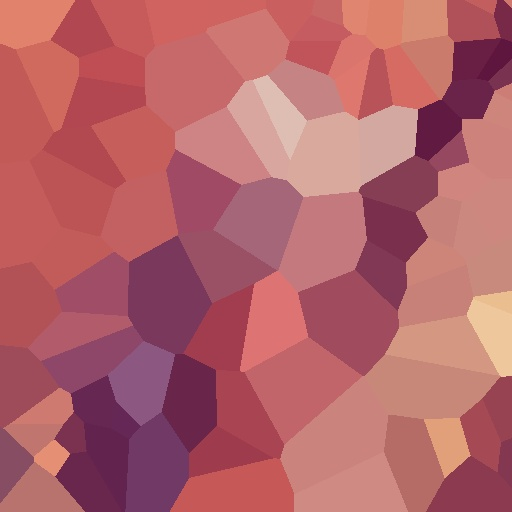
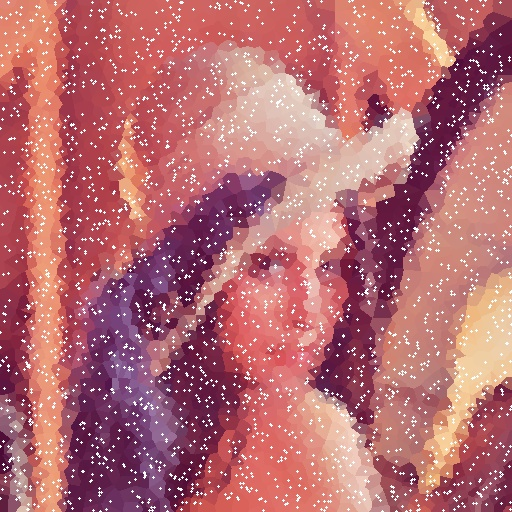
yippeeeee

diff --git a/voronoioptimized.py b/voronoioptimized.py
@@ -1,0 +1,89 @@
+import cv2
+import numpy as np
+import random
+import math
+import time
+class VoronoiMosaic:
+    def __init__(self, input_image):
+        self.input_image = input_image
+        self.region_assignment = None
+        self.output_image = None
+    
+    # Generate seeds for the Voronoi diagram
+    def generate_seeds(self, num_seeds):
+        h, w = self.input_image.shape[:2]
+        seeds = np.column_stack((
+            np.random.randint(0, w, num_seeds),
+            np.random.randint(0, h, num_seeds)
+        ))
+        return seeds.tolist()
+
+    # Generate the Voronoi diagram
+    def voronoi(self, seeds):
+        seeds = np.array(seeds, dtype=np.float32)
+
+        # Generate a grid of all pixels in the image
+        x = np.arange(self.input_image.shape[1], dtype=np.float32)
+        y = np.arange(self.input_image.shape[0], dtype=np.float32)
+        xx, yy = np.meshgrid(x, y)
+
+        # The shape of points is [height, width, 2]
+        points = np.stack((xx, yy), axis=-1)
+        
+        # Chunking
+        chunk_size = 100
+        # Initialize region assignment for each pixel
+        self.region_assignment = np.zeros(self.input_image.shape[:2], dtype=np.int32)
+        
+        # Chunking points
+        for i in range(0, points.shape[0], chunk_size):
+            for j in range(0, points.shape[1], chunk_size):
+                chunk = points[i:i+chunk_size, j:j+chunk_size]
+                distances = np.sum((chunk[..., np.newaxis, :] - seeds) ** 2, axis=-1)
+                self.region_assignment[i:i+chunk_size, j:j+chunk_size] = np.argmin(distances, axis=-1)
+
+    # Assign colors to each region
+    def region_color(self, num_seeds):
+        region_colors = np.zeros((num_seeds, 3), dtype=np.uint8)
+        for i in range(num_seeds):
+            mask = self.region_assignment == i
+            if np.any(mask):
+                region_colors[i] = np.mean(self.input_image[mask], axis=0)
+        return region_colors
+    
+    def region_color(self, num_seeds):
+        region_colors = np.zeros((num_seeds, 3), dtype=np.uint8)
+        masks = [self.region_assignment == i for i in range(num_seeds)]
+        for channel in range(3):
+            for i, mask in enumerate(masks):
+                if np.any(mask):
+                    pixels = self.input_image[mask, channel]
+                    region_colors[i, channel] = np.mean(pixels)
+        return region_colors
+
+    # Generate the Voronoi mosaic
+    def generate_mosaic(self, num_seeds):
+        seeds = self.generate_seeds(num_seeds)
+        print("Seeds generated")
+        self.voronoi(seeds)
+        print("Voronoi diagram generated")
+        region_colors = self.region_color(num_seeds)
+        print("Region colors generated")
+        self.output_image = region_colors[self.region_assignment]
+        # draw the seeds on the output image
+        for seed in seeds:
+            cv2.circle(self.output_image, (seed[0], seed[1]), 1, (255, 255, 255), -1)
+        return self.output_image
+    
+def process_chunk(args):
+    chunk, seeds = args
+    distances = np.sum((chunk[..., np.newaxis, :] - seeds) ** 2, axis=-1)
+    return np.argmin(distances, axis=-1)
+if __name__ == '__main__':
+    freeze_support()
+    time_init = time.time()
+    image = cv2.imread('lena.png')
+    voronoi_mosaic = VoronoiMosaic(image)
+    output_image = voronoi_mosaic.generate_mosaic(3000)
+    cv2.imwrite('output.jpg', output_image)
+    print("Time taken: ", time.time() - time_init)
